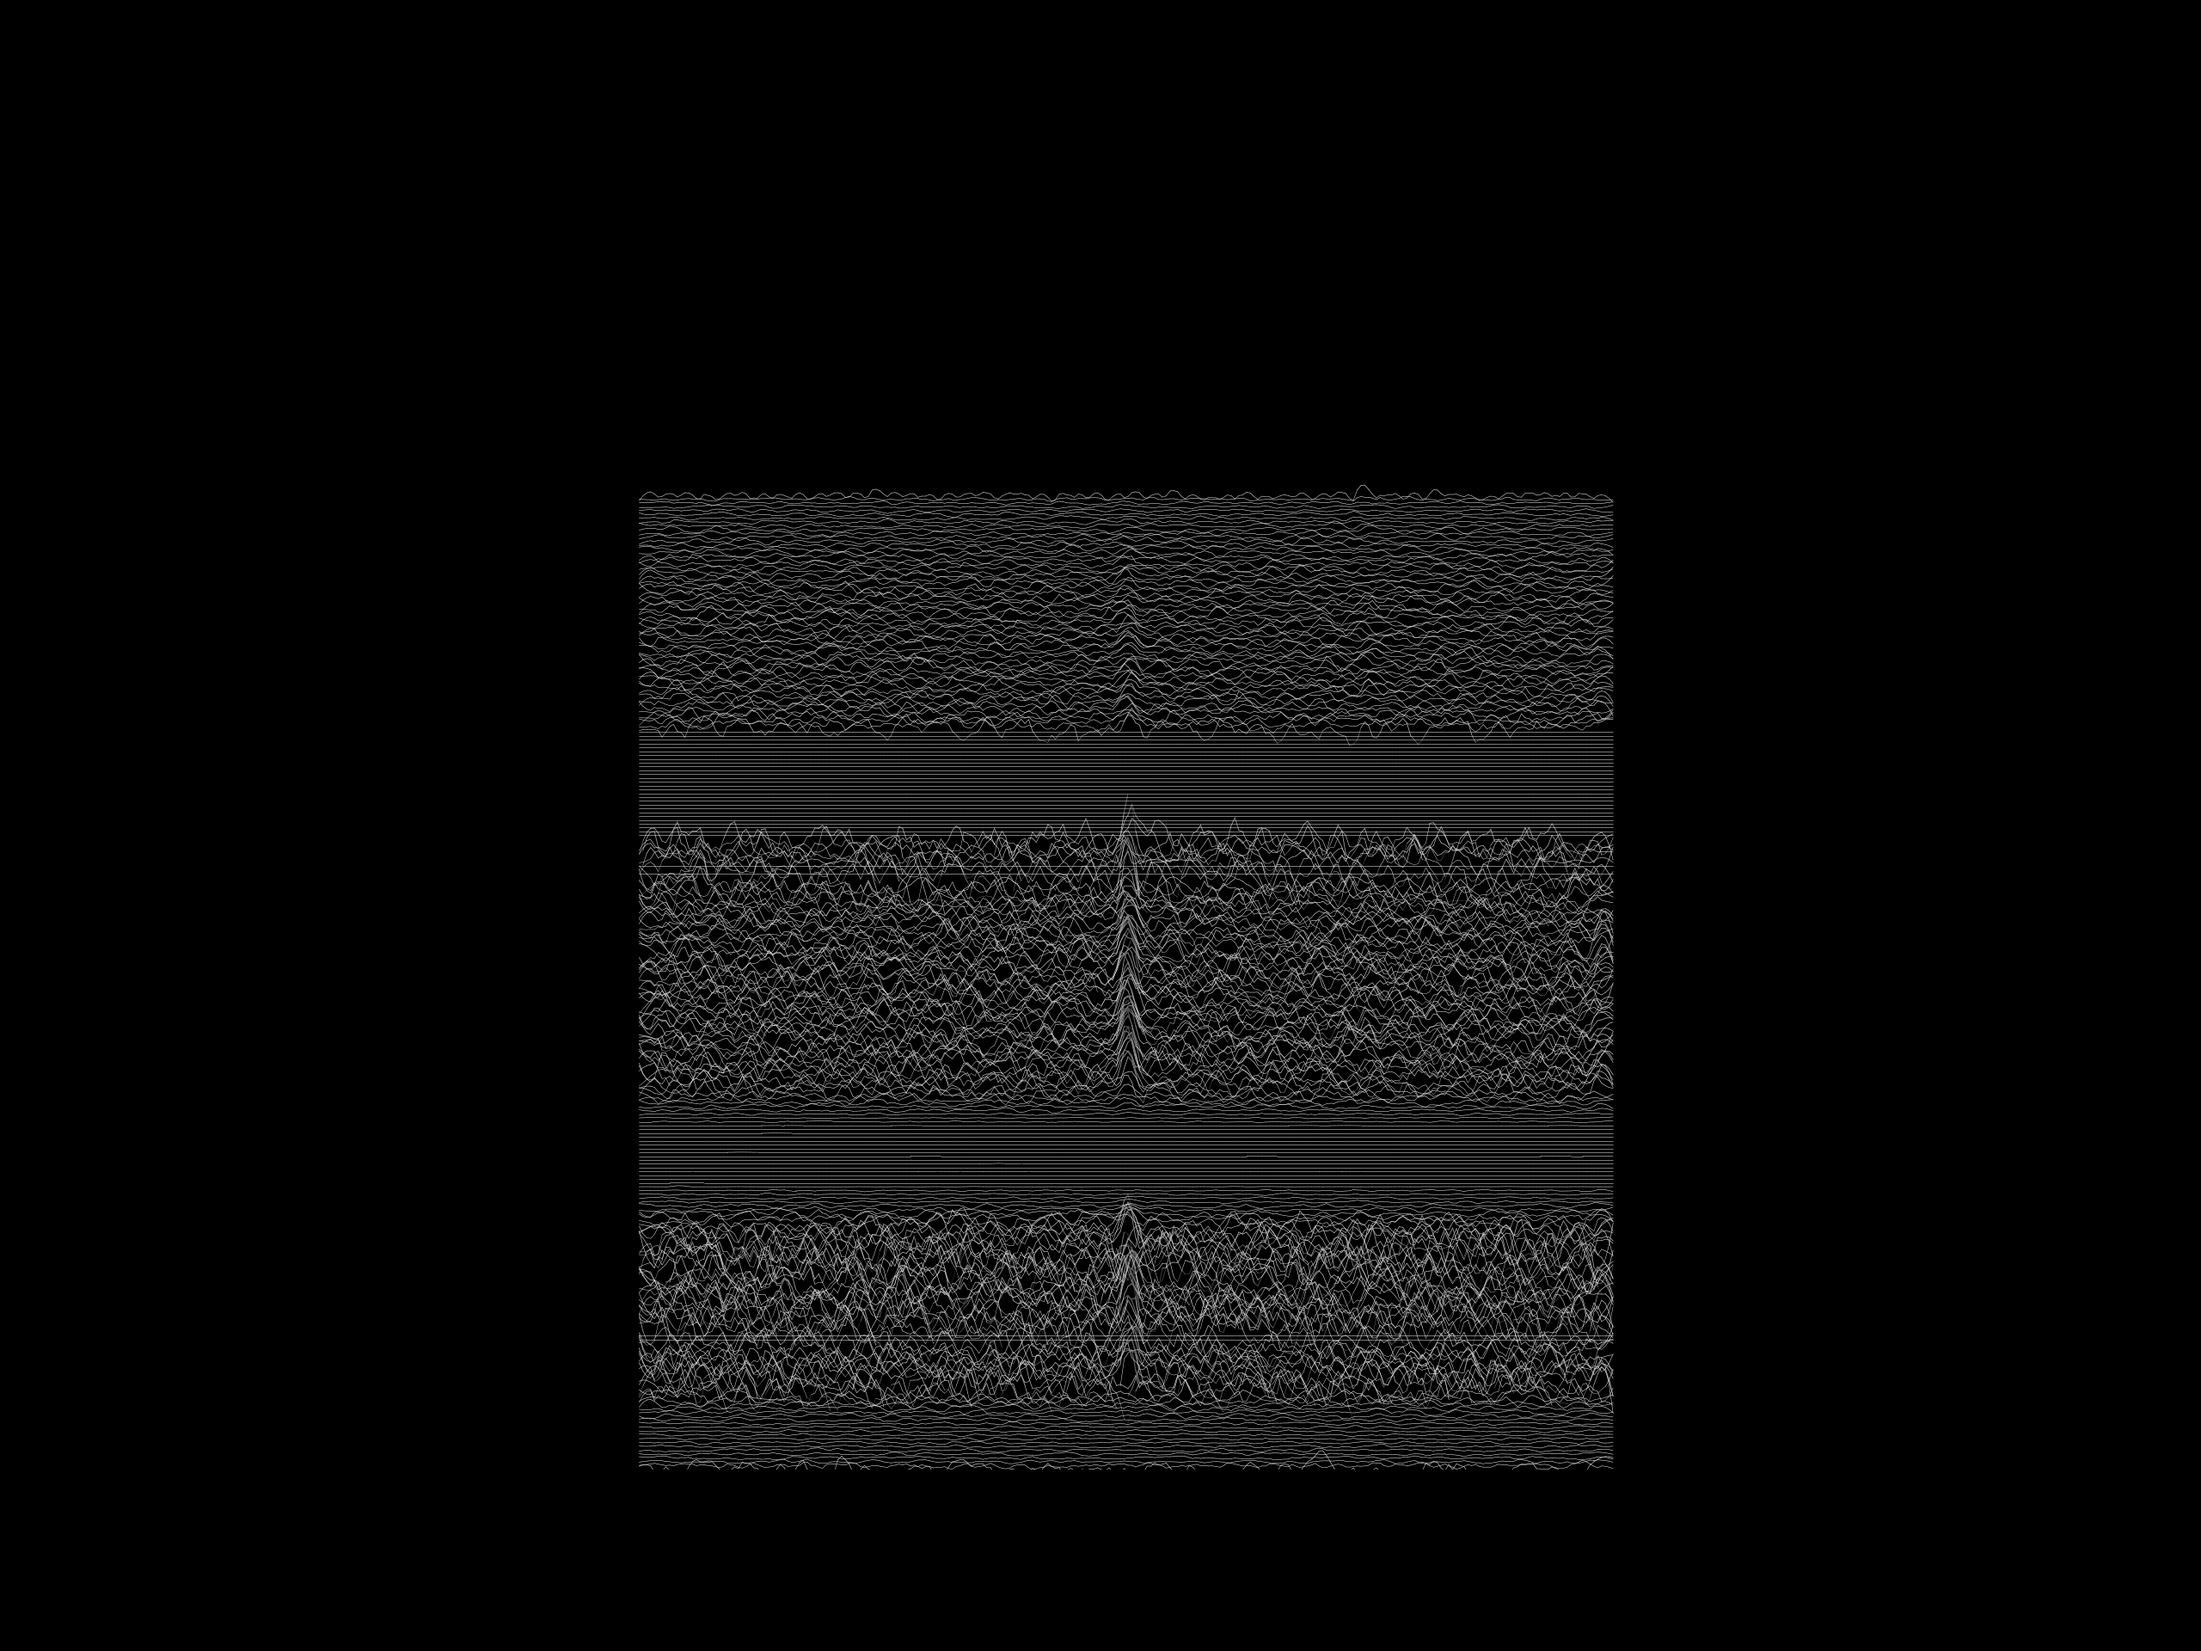
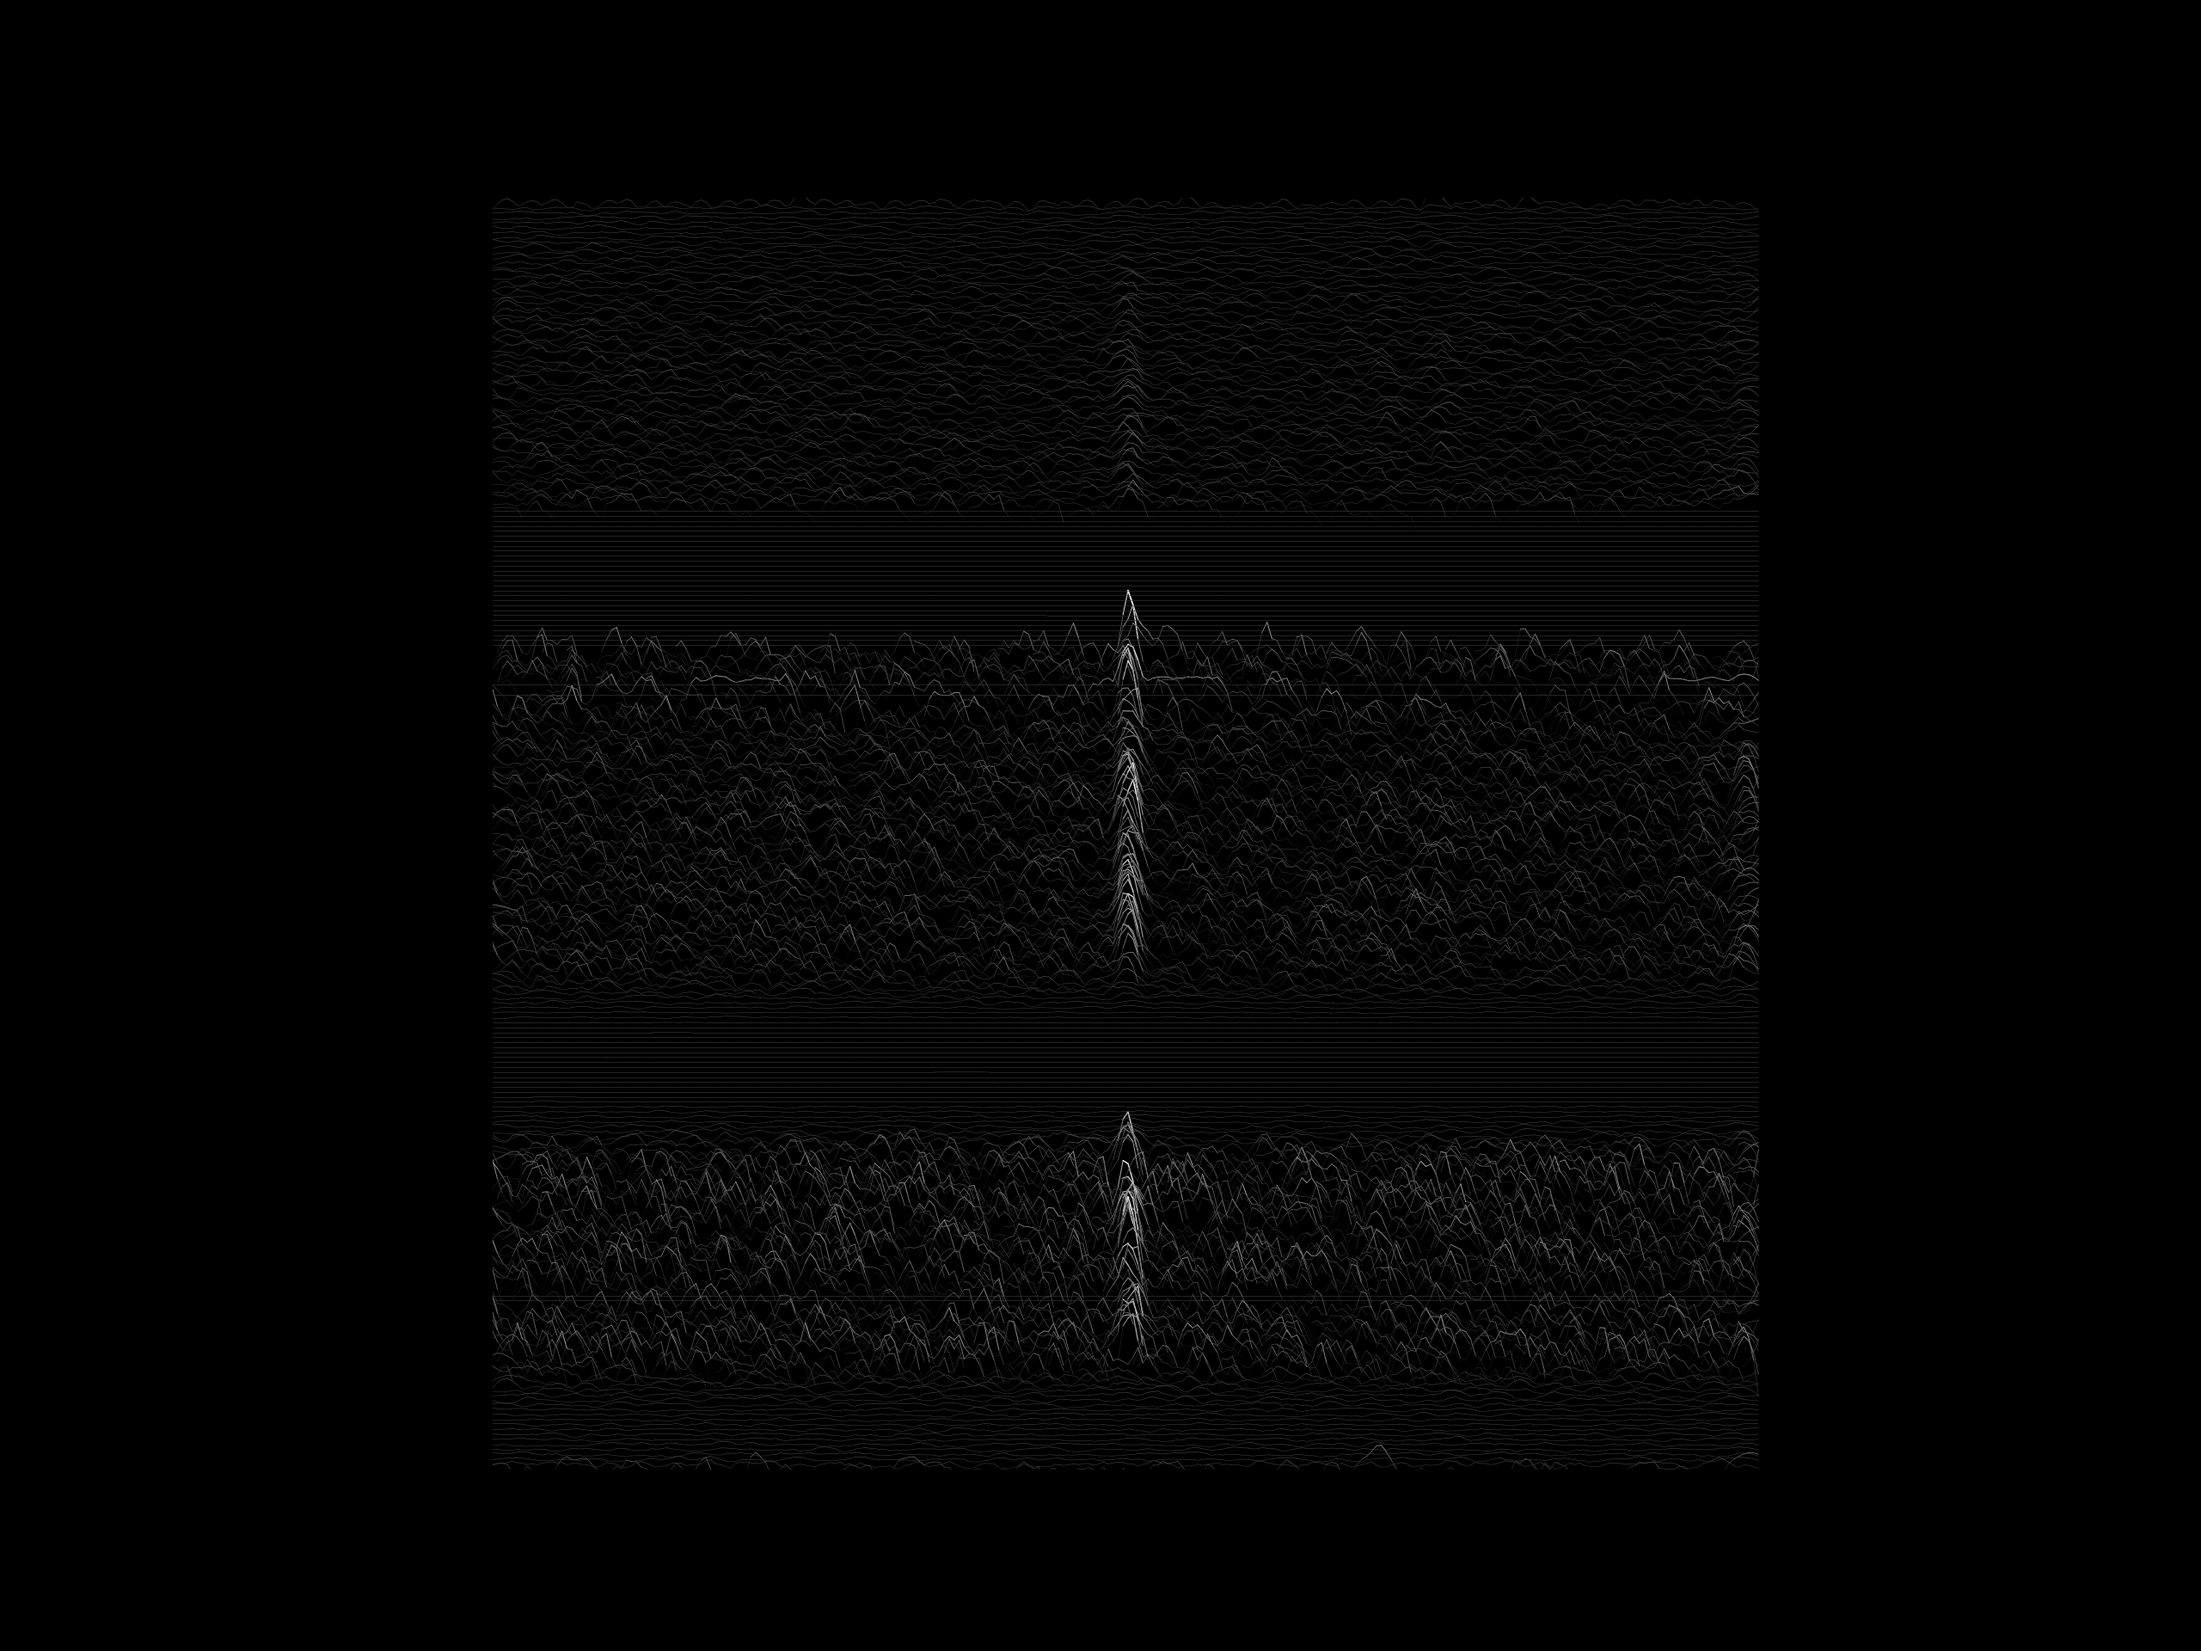
fixed illumination taper, user controls smoothing, changed file format to unix

Changed region(s): [[0.2188, 0.125, 0.8125, 0.9062]]

diff --git a/main.py b/main.py
@@ -78,7 +78,7 @@ def main(**options):
     scut = smad(freq_time, sigma)
     sg_smooth = True
     if sg_smooth:
-        scut = spec_sad(scut, window=7)
+        scut = spec_sad(scut, window=options['smooth'])
 
     #map = preprocessing.scale(np.array(freq_time, dtype=float), axis=1)*5000
     map = np.array(scut, dtype=float)
@@ -102,9 +102,9 @@ def main(**options):
     highest_value = np.max(map)
     #print('highest_value=', highest_value)
     # create figure
-    #cmap = plt.get_cmap('binary_r')#try to flip the colors
     plt.style.use('dark_background')
-    cmap = plt.get_cmap('binary')
+    #cmap = plt.get_cmap('binary')
+    cmap = plt.get_cmap('binary_r')#try to flip the colors
     fig, ax = plt.subplots()
     fig.set_facecolor((1.0, 1.0, 1.0))
     ax.set_aspect('equal')
@@ -144,7 +144,8 @@ def main(**options):
             #z_int[remove_values] = np.nan
 
         # set dynamics colors and widths
-        colors = [cmap(0.15+0.85*value/highest_value) if not np.isnan(value) else cmap(0) for value in z_int]
+        #colors = [cmap(0.15+0.85*value/highest_value) if not np.isnan(value) else cmap(0) for value in z_int]#original
+        colors = [cmap(0.25+0.75*value/highest_value) if not np.isnan(value) else cmap(0) for value in z_int]
         widths = [0.1 + 0.2*value / highest_value for value in z_int]
 
         line_plotting.plot_line_2d(ax, x_int, y_int, z_int, z_fraction=options['z_frac'], linewidths=widths, linecolors=colors)
@@ -181,7 +182,7 @@ if __name__ == "__main__":
                           default=".")
     semi_opt.add_argument('-s','--smooth',type=int,
                           help='How much to smooth the spectra',
-                          default=30000)
+                          default=7)
     semi_opt.add_argument('-z','--z_frac',type=float,
                           help='z fraction',
                           default=10)

diff --git a/README.md b/README.md
@@ -1,4 +1,4 @@
-# line-topography-plotter
+# joy-plotter
 
 Example:  python main.py -f cand_tstart_58983.398245898054_tcand_247.8230000_dm_234.00700_snr_13.66240.h5 
 
